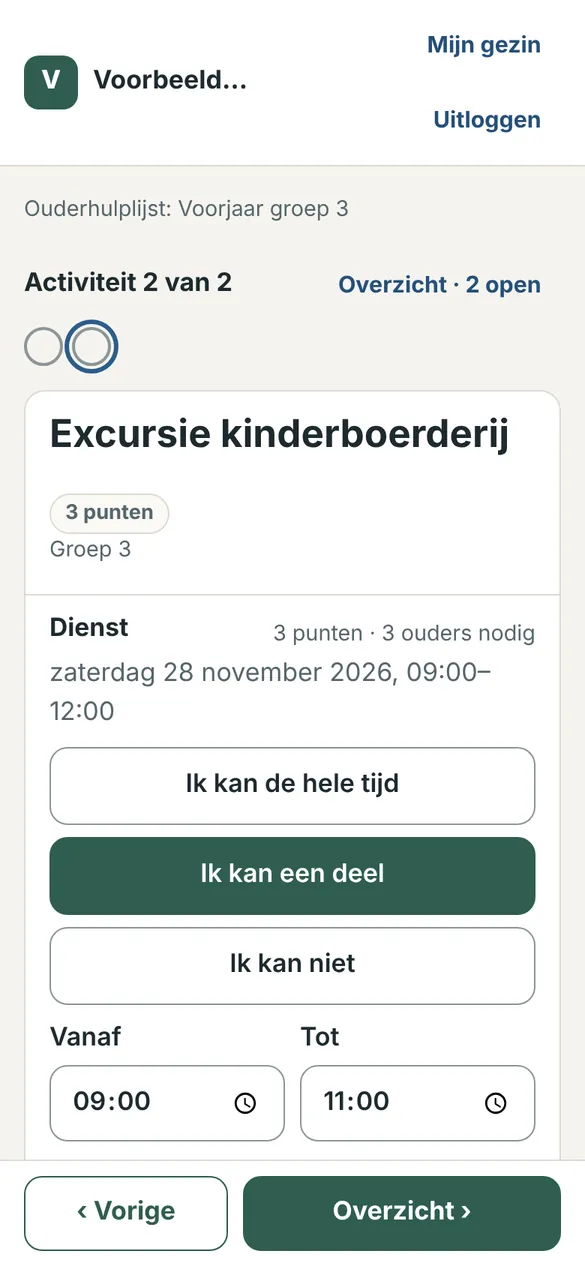
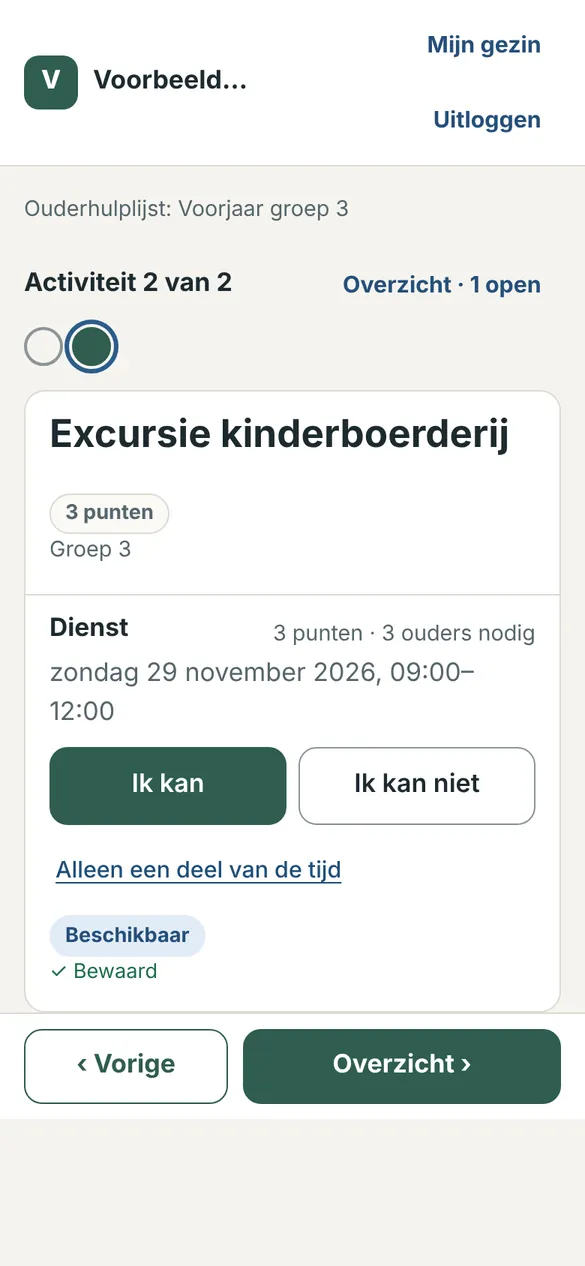
Ouderhulp.: wel of niet als hoofdkeuze op de productpagina (B-097)
Claude-Session: https://claude.ai/code/session_01CM23m7iGgsbNJ1GRgkZ9ak

diff --git a/src/app/ouderhulp/page.tsx b/src/app/ouderhulp/page.tsx
@@ -57,7 +57,7 @@ const VRAGEN = [
   ["Moeten ouders een app installeren?", "Nee. Ouderhulp. werkt in de browser van de telefoon of computer. Er is niets te installeren."],
   ["Hoe werkt aanmelden?", "Ouders vullen hun e-mailadres in en krijgen een inlogcode per e-mail; een wachtwoord is niet nodig. Leerkrachten en beheerders loggen in met e-mailadres en wachtwoord, en in de echte schoolomgeving ook met een tweede stap via een authenticator-app. Elke school heeft een eigen adres, dat de school zelf aan ouders en medewerkers geeft."],
   ["Hoe werkt een gezin met meerdere kinderen?", "Het gezin ziet de activiteiten van alle klassen van de eigen kinderen en van de hele school, in één opgave. Ook de punten staan per gezin. Beide ouders kunnen met een eigen e-mailadres inloggen en werken in dezelfde opgave."],
-  ["Kan iemand een deel van een tijdvak helpen?", "Ja. Naast ‘de hele tijd’ en ‘niet’ kiest een ouder ‘een deel’ en vult de begin- en eindtijd in. De punten gaan dan naar rato."],
+  ["Kan iemand een deel van een tijdvak helpen?", "Ja. Meestal is het gewoon ‘ik kan’ of ‘ik kan niet’. Wie maar een deel van de tijd kan, kiest ‘alleen een deel van de tijd’ en vult de begin- en eindtijd in. De punten gaan dan naar rato."],
   ["Wie bepaalt de punten?", "De school, centraal per soort activiteit. Leerkrachten vullen geen punten in. Een latere wijziging geldt voor nieuwe activiteiten; wat al is vastgelegd, verandert niet ongemerkt."],
   ["Kan de school zelf activiteiten toevoegen?", "Ja. Leerkrachten maken hulpvragen voor hun eigen klassen. De beheerder voegt schoolbrede activiteiten toe, zoals pleinwacht of een schoonmaakavond, en beheert de soorten activiteiten."],
   ["Hoe begint een nieuwe school?", "Met een eigen, lege omgeving. Klassen en gezinnen worden ingelezen uit een bestand van de leerlingadministratie; een automatische koppeling met ParnasSys of een ander systeem is er niet. Daarna volgen de soorten activiteiten en punten, en een eerste lijst als proefronde."],

diff --git a/src/components/ouderhulp/Route.tsx b/src/components/ouderhulp/Route.tsx
@@ -10,7 +10,7 @@ import { useHydrated } from "./useHydrated";
 const STEPS = [
   { who: "Leerkracht", title: "maakt een hulpvraag", text: "Soort, klas, titel en tijdvak. Punten staan centraal vast. Bewaren als concept kan; doorzetten stuurt de vraag naar de beheerder." },
   { who: "Beheerder", title: "bundelt in een ouderhulplijst", text: "Hulpvragen en schoolactiviteiten in één uitvraag, voor de hele school of voor gekozen klassen. Eerst controleren, dan bewust versturen." },
-  { who: "Ouders", title: "geven beschikbaarheid op", text: "Per activiteit: de hele tijd, een deel of niet. Alles wordt meteen bewaard; de school ziet het pas na indienen." },
+  { who: "Ouders", title: "geven beschikbaarheid op", text: "Per dienst: ik kan of ik kan niet. Alleen een deel van de tijd kan ook. Alles wordt meteen bewaard; de school ziet het pas na indienen." },
   { who: "School", title: "maakt en bevestigt de indeling", text: "Reacties en tekorten per dienst in één overzicht. Eerst een voorlopige indeling, daarna publiceren. Ouders krijgen hun afspraken met agenda-bestand." },
 ] as const;
 
@@ -32,7 +32,8 @@ function Voorbeeld({ i }: { i: number }) {
   if (i === 2) return (
     <div className="oh-mini" aria-hidden="true">
       <p className="oh-mini__title">Excursie kinderboerderij</p>
-      <p className="oh-mini__opts"><span>de hele tijd</span><span className="is-on">een deel · 9:00–11:00</span><span>niet</span></p>
+      <p className="oh-mini__opts"><span className="is-on">ik kan</span><span>ik kan niet</span></p>
+      <p className="oh-mini__part">alleen een deel van de tijd</p>
       <p className="oh-mini__meta">Bewaard als concept</p>
     </div>
   );

diff --git a/src/lib/ouderhulp.ts b/src/lib/ouderhulp.ts
@@ -16,7 +16,7 @@ export type Shot = { src: string; alt: string; width: number; height: number; ro
 
 export const SHOTS = {
   ouderActiviteit: { src: "/images/ouderhulp/ouder-activiteit.webp", width: 585, height: 1266, role: "Ouder", task: "Beschikbaarheid opgeven, één activiteit per scherm",
-    alt: "Telefoonscherm van een ouder bij de activiteit Excursie kinderboerderij: één dienst op zaterdag van 9:00 tot 12:00 met de keuzes Ik kan de hele tijd, Ik kan een deel en Ik kan niet. Een deel is gekozen." },
+    alt: "Telefoonscherm van een ouder bij de activiteit Excursie kinderboerderij: één dienst van 9:00 tot 12:00 met de keuzes Ik kan en Ik kan niet, en daaronder Alleen een deel van de tijd. Ik kan is gekozen." },
   ouderOverzicht: { src: "/images/ouderhulp/ouder-overzicht.webp", width: 585, height: 1266, role: "Ouder", task: "Overzicht vóór het indienen",
     alt: "Telefoonscherm Uw opgave: per activiteit wat de ouder heeft ingevuld, wat nog open staat, en de knoppen Verder invullen en Beschikbaarheid indienen." },
   ouderOntvangen: { src: "/images/ouderhulp/ouder-ontvangen.webp", width: 585, height: 1266, role: "Ouder", task: "Na het indienen",

diff --git a/src/components/ouderhulp/Rollen.tsx b/src/components/ouderhulp/Rollen.tsx
@@ -15,7 +15,7 @@ const ROLLEN: { id: string; naam: string; kop: string; punten: string[]; shots: 
     punten: ["Nieuwe aanvragen beoordelen, of de leerkracht om aanvulling vragen.", "Ouderhulplijsten samenstellen in vijf stappen, met controle vóór versturen.", "Reacties, tekorten, planning en punten beheren, met een export voor Excel (CSV)."],
     shots: [SHOTS.beheerDashboard, SHOTS.beheerLijst, SHOTS.beheerReacties] },
   { id: "ouder", naam: "Ouders", kop: "Zien wat voor hun gezin relevant is.",
-    punten: ["Alleen activiteiten van de klassen van de eigen kinderen en van de hele school.", "Per dienst de hele tijd, een deel of niet aangeven.", "Eén begrijpelijk overzicht vóór het indienen.", "Definitieve afspraken terugvinden, ook in de eigen agenda."],
+    punten: ["Alleen activiteiten van de klassen van de eigen kinderen en van de hele school.", "Per dienst kiezen: ik kan of ik kan niet. Alleen een deel van de tijd kan ook.", "Eén begrijpelijk overzicht vóór het indienen.", "Definitieve afspraken terugvinden, ook in de eigen agenda."],
     shots: [SHOTS.ouderActiviteit, SHOTS.ouderOverzicht, SHOTS.ouderOntvangen] },
 ];
 

diff --git a/src/app/globals.css b/src/app/globals.css
@@ -720,7 +720,8 @@ nav .link-draw:hover, nav .link-draw:focus-visible { background-size: 100% 6px, 
 .oh-mini__meta { color: var(--graphite); font-size: 0.88rem; }
 .oh-mini__checks { list-style: none; margin: 0.3rem 0 0.5rem; padding: 0; display: grid; gap: 0.3rem; }
 .oh-mini__checks li::before { content: "✓"; display: inline-grid; place-items: center; width: 1.1rem; height: 1.1rem; margin-right: 0.5rem; border-radius: 3px; background: var(--oh); color: #fff; font-size: 0.75rem; }
-.oh-mini__opts { display: grid; gap: 0.35rem; margin: 0.4rem 0 0.6rem !important; }
+.oh-mini__opts { display: grid; grid-template-columns: 1fr 1fr; gap: 0.35rem; margin: 0.4rem 0 0.4rem !important; }
+.oh-mini__part { font-size: 0.85rem; color: var(--info); text-decoration: underline; text-underline-offset: 0.2em; }
 .oh-mini__opts span { padding: 0.4rem 0.7rem; border: 1px solid #b9b2a6; border-radius: 8px; text-align: center; }
 .oh-mini__opts .is-on { background: var(--oh); border-color: var(--oh); color: #fff; font-weight: 700; }
 .oh-chip { display: inline-block; padding: 0.15rem 0.6rem; border-radius: 999px; font-size: 0.82rem; font-weight: 700; }

diff --git a/HANDOFF.md b/HANDOFF.md
@@ -204,6 +204,7 @@ Pas de oude regel niet aan. *Voorstel* = wacht op akkoord van de eigenaar.
 
 ---
 | B-096 | 2026-10-29 | Productpagina **Ouderhulp.** op `/ouderhulp/` (eigen product van Denckh voor basisscholen). Opbouw: eerste scherm met één hoofdactie (*Bespreek het voor onze school*, mailto met onderwerp en een paar invulregels) en een echt telefoonbeeld; het probleem; *Zo werkt het* als route in vier stappen (speelt één keer af als hij in beeld komt, stopt bij stap 4 of zodra je zelf een stap kiest; reduced motion: geen automatische voortgang); rolwissel leerkracht/beheerder/ouder als toegankelijke tabbladen (pijltjes, Home/End); voordelen; drie schermen uit één ronde; ingebruikname in vijf stappen; aanbod zonder bedragen (*Een voorstel passend bij uw school*: eenmalige inrichting, jaarlicentie, maatwerk apart); acht veelgestelde vragen als `details`. Zonder JavaScript staat alles onder elkaar. Beelden: echte schermen uit de applicatie met fictieve gegevens (*Voorbeeldschool*, geen schoolnaam of -logo), WebP 31–66 KB, gemaakt met het beeldscript in de Ouderhulp-repo; deelbeeld `og-ouderhulp.png` met los script `scripts/ouderhulp-og.mjs`. Eén productaccent: het groen van de applicatie (`--oh`), alleen voor de punt in *Ouderhulp.* en statussen in de voorbeelden. Makervermelding *Een product van* met de officiële signatuur (`DENCKH_MERKVERMELDING`). Footerlink *Ouderhulp. voor scholen*, sitemap. Contactadres op één plek (`src/lib/ouderhulp.ts`): `info@denckh.nl` tot `school@denckh.nl` is ingericht en getest (O-43). Geen formulier, geen prijzen, geen tracking erbij. e2e: 27 nieuwe controles (`tests/interaction.mjs`, ook zonder JavaScript, 200 % tekst, 320/390/1440 px); testharnas: `CHROMIUM_PATH` en `STUB_EXTERNAL=1` voor een omgeving zonder internet. | Opdracht eigenaar 29-10-2026: productwebsite bouwen en publiceren onder denckh.nl/ouderhulp/, alleen bewezen functionaliteit, geen verzonnen prijzen, geen schoollogo als klantreferentie. | Vast (opdracht eigenaar) |
+| B-097 | 2026-10-30 | Ouderhulp.: beschikbaarheid is in de praktijk meestal wel of niet. De applicatie toont nu twee hoofdkeuzes (*Ik kan* / *Ik kan niet*) en *Alleen een deel van de tijd* als kleinere, secundaire keuze. Productpagina mee aangepast: nieuwe ouderbeelden en deelbeeld, routevoorbeeld stap 3, rolteksten en de vraag over een deel van een tijdvak. | Feedback eigenaar 30-10-2026: "overal ik kan een deel, maar meestal is het wel of niet". | Vast |
 
 ## Geverifieerde feiten
 
